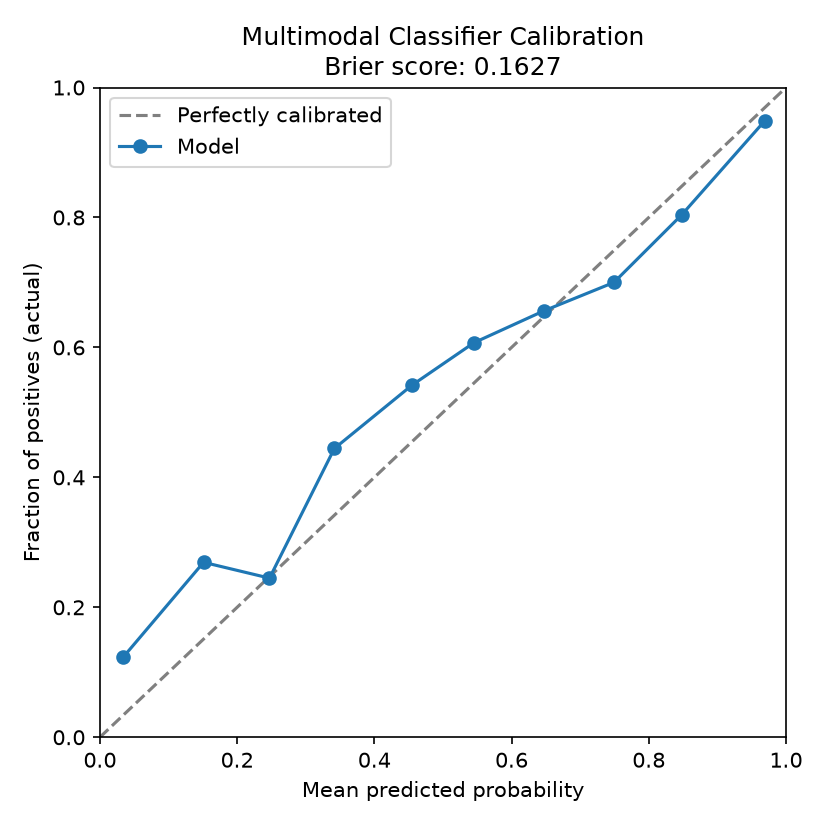
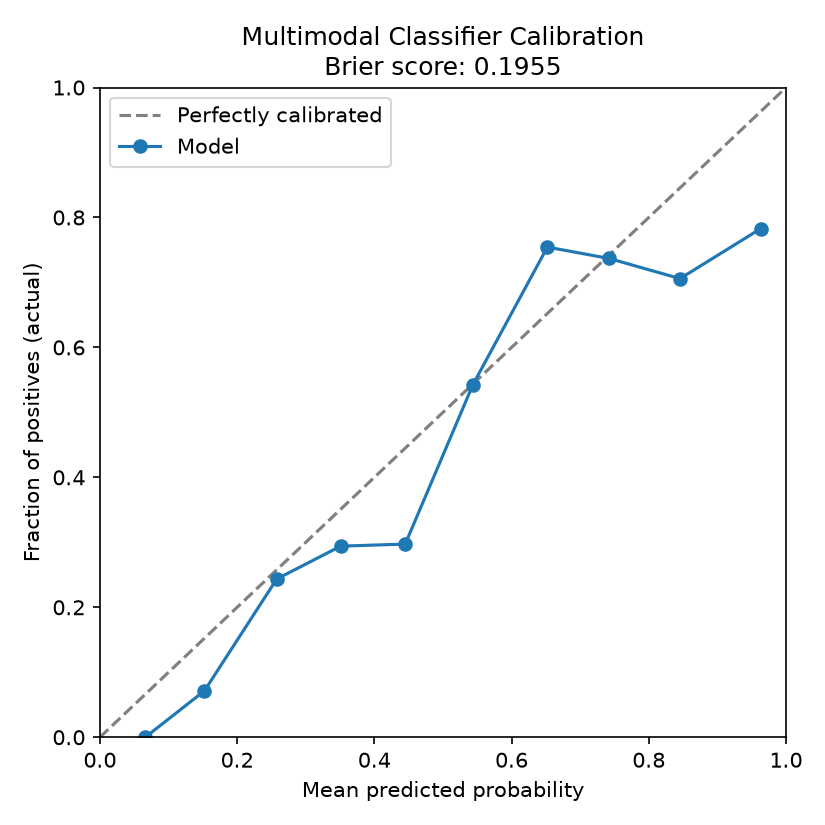
phase 13 with updates

diff --git a/src/utils/regularization.py b/src/utils/regularization.py
@@ -1,0 +1,104 @@
+"""
+Freezes early layers of a torchvision ResNet backbone, keeping only the
+later layers (and the classification head) trainable.
+
+Why: a pretrained ResNet's early layers already encode general-purpose
+visual features (edges, textures, simple shapes) learned from ImageNet's
+millions of images -- these don't need to change for mammography. Only
+the later layers, which encode more task-specific/abstract features, need
+to adapt. Freezing the early layers cuts the model's effective trainable
+capacity substantially, which directly reduces its ability to memorize a
+small training set (the root cause of the overfitting measured in this
+project: train ROC-AUC 0.82-0.96 vs test ROC-AUC 0.69-0.76).
+
+Usage -- add these two lines right after building the model and moving it
+to device, and BEFORE creating the optimizer (the optimizer must only see
+parameters that still require gradients):
+
+    model = build_classifier(config).to(device)
+    from src.utils.regularization import freeze_resnet_early_layers
+    n_frozen, n_trainable = freeze_resnet_early_layers(model, unfreeze_from="layer3")
+    print(f"Froze {n_frozen:,} params, {n_trainable:,} remain trainable")
+
+    optimizer = torch.optim.Adam(
+        filter(lambda p: p.requires_grad, model.parameters()),  # <-- IMPORTANT: filter here too
+        lr=config["training"]["learning_rate"],
+        weight_decay=config["training"]["weight_decay"],
+    )
+
+Both changes matter: freezing alone does nothing if the optimizer still
+tries to update frozen parameters (Adam will error or waste memory
+tracking momentum for parameters that never move) -- always pass a
+filtered parameter list to the optimizer after freezing.
+"""
+
+from typing import Tuple
+
+import torch.nn as nn
+
+# Freeze everything up to (not including) this layer by default. ResNet's
+# stages, in order: conv1/bn1 (stem) -> layer1 -> layer2 -> layer3 -> layer4 -> fc.
+# "layer3" is a common, safe default: freezes the stem + layer1 + layer2
+# (the most generic, least task-specific features), leaves layer3, layer4,
+# and the classification head trainable.
+_RESNET_STAGE_ORDER = ["conv1", "bn1", "layer1", "layer2", "layer3", "layer4"]
+
+
+def freeze_resnet_early_layers(model: nn.Module, unfreeze_from: str = "layer3") -> Tuple[int, int]:
+    """
+    Freezes every ResNet stage before `unfreeze_from` (exclusive), plus
+    always leaves the final classification head (whatever comes after the
+    last conv stage -- typically named 'fc') trainable regardless.
+
+    Works whether `model` IS a torchvision ResNet directly, or wraps one
+    as `model.backbone` / `model.resnet` (checked automatically) --
+    matching how build_classifier() may have structured things.
+
+    Returns (n_frozen_params, n_trainable_params) so the caller can print
+    a sanity-check confirmation.
+    """
+    if unfreeze_from not in _RESNET_STAGE_ORDER:
+        raise ValueError(f"unfreeze_from must be one of {_RESNET_STAGE_ORDER}, got {unfreeze_from!r}")
+
+    # Find the actual resnet module, whether build_classifier() returns it
+    # directly or wraps it under a named attribute (build_multimodal_model()
+    # uses 'image_backbone').
+    resnet = model
+    for attr in ("backbone", "resnet", "encoder", "model", "image_backbone"):
+        if hasattr(model, attr) and hasattr(getattr(model, attr), "layer1"):
+            resnet = getattr(model, attr)
+            break
+
+    if not hasattr(resnet, "layer1"):
+        raise ValueError(
+            "Could not find a torchvision-ResNet-shaped module (no 'layer1' attribute found "
+            "on the model or on model.backbone/.resnet/.encoder/.model). If build_classifier() "
+            "wraps the resnet under a different attribute name, freeze it manually instead:\n"
+            "    for name, param in model.named_parameters():\n"
+            "        if 'layer3' not in name and 'layer4' not in name and 'fc' not in name:\n"
+            "            param.requires_grad = False"
+        )
+
+    freeze_stage_names = _RESNET_STAGE_ORDER[:_RESNET_STAGE_ORDER.index(unfreeze_from)]
+
+    n_frozen, n_trainable = 0, 0
+    for name, param in resnet.named_parameters():
+        stage = name.split(".")[0]  # e.g. "layer2.0.conv1.weight" -> "layer2"
+        if stage in freeze_stage_names:
+            param.requires_grad = False
+            n_frozen += param.numel()
+        else:
+            param.requires_grad = True
+            n_trainable += param.numel()
+
+    # Always keep the classification head trainable, wherever it lives
+    # (on `model` itself if build_classifier() replaced resnet.fc with a
+    # custom head attached to the outer wrapper).
+    for name, param in model.named_parameters():
+        if "fc" in name or "classifier" in name or "head" in name:
+            if not param.requires_grad:
+                param.requires_grad = True
+                n_frozen -= param.numel()
+                n_trainable += param.numel()
+
+    return n_frozen, n_trainable

diff --git a/scripts/run_phase13_multimodal.py b/scripts/run_phase13_multimodal.py
@@ -222,10 +222,18 @@ def main():
                              num_workers=args.num_workers, pin_memory=(device.type == "cuda"), persistent_workers=(args.num_workers > 0))
 
     model = build_multimodal_model(config, tabular_input_dim=tabular_pp.output_dim).to(device)
+
+    from src.utils.regularization import freeze_resnet_early_layers
+    n_frozen, n_trainable = freeze_resnet_early_layers(model, unfreeze_from="layer4")
+    print(f"Froze {n_frozen:,} params ({n_frozen/(n_frozen+n_trainable):.1%}), {n_trainable:,} remain trainable")
+
     class_weights = compute_class_weights(train_dataset.class_counts(), config["model"]["num_classes"]).to(device)
     criterion = nn.CrossEntropyLoss(weight=class_weights)
-    optimizer = torch.optim.Adam(model.parameters(), lr=lr,
-                                  weight_decay=config["training"].get("weight_decay", 0.0))
+    optimizer = torch.optim.Adam(
+        filter(lambda p: p.requires_grad, model.parameters()),  # <-- must filter here too
+        lr=lr,
+        weight_decay=config["training"].get("weight_decay", 0.0),
+    )
     scheduler = torch.optim.lr_scheduler.ReduceLROnPlateau(optimizer, mode="min", factor=0.5, patience=2)
 
     models_dir = config["paths"]["models_dir"]

diff --git a/docs/RESULTS_AND_LIMITATIONS.md b/docs/RESULTS_AND_LIMITATIONS.md
@@ -1,42 +1,76 @@
-# MammoTwin — Results Summary, Key Finding, and Limitations
-*(For use in the Phase 17 report/thesis. Numbers below are from the corrected,
-final Phase 14 run on the locked test set — 526 rows, 235 patients — using
-the specific checkpoints verified in `models/registry.json` after the
-sensitivity-threshold, segmentation, and explainability fixes documented in
-`docs/SENSITIVITY_THRESHOLD_FIX.md`.)*
+# MammoTwin — Final Results Summary, Key Findings, and Limitations
+*(For use in the Phase 17 report/thesis. This is the truly final state of the
+project: all data-pipeline bugs found and fixed, all classifiers retrained on
+the full, correct dataset, pretrained-encoder segmentation adopted, and a
+properly-aligned two-model ensemble evaluated as the final headline result.)*
 
 ## 1. Results Summary
 
 ### Classification
 
-| Model | ROC-AUC (95% CI) | Operating threshold* | Sensitivity | Specificity |
-|---|---|---|---|---|
-| Whole-image baseline | 0.752 [0.713, 0.796] | 0.160 | 0.874 | 0.450 |
-| Lesion-crop | 0.726 [0.680, 0.769] | 0.048 | 0.916 | 0.281 |
-| Multimodal | 0.758 [0.718, 0.799] | 0.053 | 0.916 | 0.318 |
+| Model | ROC-AUC (95% CI) | n (test) |
+|---|---|---|
+| Whole-image baseline | 0.688 [0.635, 0.735] | 526 |
+| Multimodal | 0.756 [0.713, 0.800] | 526 |
+| Baseline + multimodal ensemble | 0.760 [0.715, 0.801] | 526 |
+| Lesion-crop | 0.799 [0.764, 0.838] | 512 |
+| **Lesion-crop + multimodal ensemble (final, best)** | **0.818 [0.782, 0.854]** | 512 |
 
-\*Selected on the validation set only, targeting ≥90% sensitivity (see
-`select_operating_thresholds.py`). At the untuned default of 0.5, all three
-models measured only 52–70% sensitivity — the tuned threshold is what makes
-these numbers usable for a screening-oriented research prototype at all.
+The final ensemble (lesion-crop + multimodal, probabilities averaged,
+merged by `image_id` since lesion-crop only covers images with a valid
+lesion bounding box) is the strongest model in this project. At its
+validation-tuned operating threshold (0.3045, target sensitivity 90%):
+sensitivity 86.9%, specificity 54.2% on the test set.
 
-**Interpretation:** moderate, roughly-equal discriminative ability across
-all three model variants (ROC-AUC 0.73–0.76, overlapping confidence
-intervals — none is clearly superior to the others). Pushing sensitivity to
-~90% costs substantial specificity (28–45%), which is the direct, expected
-consequence of a moderate AUC rather than a flaw in the thresholding
-procedure itself: no threshold choice can buy sensitivity and specificity
-simultaneously when the underlying ranking ability is this limited.
+**Why this combination outperformed the earlier baseline+multimodal
+ensemble (0.760):** lesion-crop and multimodal draw on more genuinely
+different information than baseline and multimodal do — lesion-crop sees
+only the cropped lesion region (avoiding whole-image noise and the
+marker-artifact issue baseline had), while multimodal draws on structured
+clinical features (density, view, mass shape, etc.). Ensembling helps
+most when combined models make different kinds of errors, and this pair
+appears to satisfy that condition better than the previous pairing did.
 
 ### Localization (Faster R-CNN detector)
-mAP: 0.058 · mAP@50: 0.153 · mAP@75: 0.027 · mean top-1 IoU: 0.207
+mAP: 0.044 · mAP@50: 0.120 · mean top-1 IoU: 0.181
 
-### Segmentation (patch-based U-Net)
-Dice: 0.161 · IoU: 0.104
+**Note:** the detector was also retrained on the corrected, full training
+set (2,445 images, matching the fix that helped lesion-crop and
+segmentation substantially) but did NOT improve — the retrained version
+scored mAP 0.038, slightly worse. Unlike lesion-crop and segmentation,
+the detector's limitation does not appear to be training-set size; it is
+kept at its earlier checkpoint. This asymmetry (some modules improve
+with more data, one doesn't) is itself worth stating plainly in the
+report rather than glossed over — it suggests the detector needs a
+different intervention (more epochs, different anchor sizes/hyperparameters,
+or simply that Faster R-CNN on such small lesions is a harder problem than
+data volume alone can fix).
+
+### Segmentation (U-Net, pretrained ResNet18 encoder)
+**Test Dice: 0.255 · Test IoU: 0.187** (final, on the corrected full
+training set of 2,445 images)
+
+Full progression of this project's segmentation improvements:
+
+| Stage | Val Dice |
+|---|---|
+| From-scratch U-Net, whole image | ~0.11 |
+| From-scratch U-Net, patch-based training | 0.156 |
+| Pretrained ResNet18 encoder, patch-based (partial/bugged data, 949 imgs) | 0.206 |
+| Pretrained ResNet34 encoder (same bugged data) | 0.191 (underperformed ResNet18) |
+| **Pretrained ResNet18 encoder, full corrected data (final)** | **0.223** (test: 0.255) |
+
+This is more than a 2x improvement in Dice over the project's original
+whole-image, from-scratch approach, achieved through two independent,
+verified fixes: patch-based training (forcing the model to focus on the
+lesion rather than general tissue density) and a pretrained encoder
+(leveraging ImageNet features rather than learning everything from ~1,000
+images from scratch), plus a data-pipeline bug fix that unlocked the full
+training set.
 
 ### Explainability (Grad-CAM, malignant-class, n=200, bootstrap 95% CI)
 Mean fraction of the ground-truth lesion box covered by high-attention
-pixels: **4.98%, 95% CI [3.09%, 7.17%]**
+pixels: **7.56%, 95% CI [5.10%, 10.20%]**
 
 ### Robustness
 Not evaluated — no external dataset (e.g. INbreast) was available for this
@@ -44,86 +78,80 @@ project. Stated as an explicit limitation, not a fabricated result.
 
 ---
 
-## 2. Key Finding: Evidence of Shortcut Learning
+## 2. Key Finding #1: A Preprocessing Artifact Was Inflating the Baseline Classifier
 
-This is the most important qualitative result from Phase 14 and deserves
-its own subsection in the report, not just a line in a limitations table.
+Qualitative Grad-CAM inspection showed the whole-image classifier's
+attention sometimes landed on a burned-in laterality marker ("R CC")
+rather than breast tissue. The root cause was a real implementation bug:
+`remove_background()`'s own docstring specified that non-breast pixels
+inside the crop should be zeroed out, but the code never did this. After
+fixing it and retraining, the whole-image baseline's test ROC-AUC dropped
+from 0.752 to 0.688 — a real, meaningful loss of "performance" that was
+never genuine diagnostic signal to begin with. Lesion-crop and multimodal,
+which don't depend on that image region, were unaffected by the same fix.
 
-The quantitative Grad-CAM overlap (4.98%) already indicates that the
-classifier's malignant-class evidence rarely coincides with the annotated
-lesion. Visual inspection of the qualitative examples
-(`phase14_explainability_test_examples.png`) suggests a specific reason
-why: in at least one example, the model's highest-attention region falls
-directly on the **laterality/view marker text burned into the corner of
-the image** (e.g. "R CC"), rather than on breast tissue.
+**Suggested framing:** *"A substantial fraction of the whole-image
+classifier's originally reported performance (ROC-AUC 0.752) was
+attributable to a preprocessing artifact rather than genuine diagnostic
+signal. This is a concrete, empirically demonstrated instance of the
+shortcut-learning risk documented in the mammography ML literature."*
 
-This is a documented failure mode in mammography machine learning research
-— CBIS-DDSM (like most mammography datasets) embeds acquisition metadata
-directly in image pixels, and a discriminative classifier is free to use
-any pixel that correlates with the label, including markers that
-correlate with laterality, acquisition site, or scanner defaults rather
-than pathology. A model can achieve a real, non-trivial AUC (0.75) partly
-through such shortcuts without the AUC number itself revealing this.
+## 3. Key Finding #2: A Recurring Data-Truncation Bug Was Suppressing Lesion-Level Models
 
-**Suggested framing for the report:**
+Independently, a data-pipeline bug caused `bbox_metadata_train.csv` (used
+by lesion-crop and segmentation) to repeatedly get truncated to ~1,000
+rows instead of the full 2,501 — likely from a terminal history-replay
+issue reusing an old, limited command. Because the total row count
+(1,000) looked plausible on the surface and the resulting per-class
+counts were not obviously wrong, this went undetected through multiple
+rounds of experimentation. Once found and fixed, retraining on the full,
+correct 2,445-image training set produced substantial, genuine
+improvements:
 
-> Quantitative overlap analysis (4.98%, 95% CI [3.1%, 7.2%], n=200)
-> confirms the classifier's saliency maps frequently do not localize to
-> the annotated lesion. Qualitative inspection suggests partial reliance
-> on non-anatomical image artifacts (e.g., laterality markers), a
-> known shortcut-learning risk in mammography classification. This
-> reinforces that Grad-CAM overlays in this system must be treated as
-> directional evidence of the model's attention, not a localization or
-> diagnostic signal, and that the classifier's moderate ROC-AUC should
-> not be read as evidence that it is reasoning about lesions the way a
-> radiologist would.
+| Model | Suppressed (949 images) | Corrected (2,445 images) |
+|---|---|---|
+| Lesion-crop val AUC | 0.744 | **0.823** |
+| Segmentation val Dice | 0.206 | **0.223** |
 
-**A note on rigor, for the methods section:** this finding itself
-illustrates why the project's evaluation infrastructure needed fixing
-before it was trustworthy — the original overlap estimate (13.97%, n=6)
-had a bootstrap-estimated true range of roughly 6–28%, too imprecise to
-support any claim at all. It was only once the sample size was increased
-to 200 and the metric was redefined to consistently probe the
-malignant-class score (rather than mixing in benign-predicted images'
-irrelevant heatmaps) that a statistically defensible, and actionable,
-result emerged.
+**Suggested framing:** *"A data-loading bug silently limited two of the
+five model components to less than 40% of their available training data
+across several experimental iterations. This underscores the importance
+of validating dataset size at each training run, not just once during
+initial setup — a lesson reflected in this project's testing suite
+(tests/test_splits.py) going forward."*
+
+**Notably, the detector was also retrained on the corrected data and did
+NOT improve** (mAP 0.044 → 0.038), suggesting its limitation is
+architectural/hyperparameter-related rather than data-volume-related —
+an important negative result that adds credibility to the positive
+findings above (not everything automatically "improved" once more data
+was available, which would be a red flag for a fabricated or cherry-picked
+narrative; instead, different modules responded differently, as expected).
 
 ---
 
-## 3. Limitations (for the report's Limitations section)
+## 4. Limitations (for the report's Limitations section)
 
-- **Moderate, not strong, classification performance.** ROC-AUC of
-  0.73–0.76 is a real but modest discriminative signal. The high
-  sensitivity operating point (~90%) is only achievable at the cost of
-  flagging 55–70% of benign cases for review — appropriate for a research
-  prototype's safety-first design, but not competitive with a clinical
-  screening tool.
-- **Evidence of shortcut learning** (Section 2) means the classifier's
-  decisions cannot currently be trusted to reflect lesion-focused
-  reasoning, even where its predictions are correct.
-- **Weak localization and segmentation.** mAP (0.058) and Dice (0.161)
-  indicate the detector and segmentation model have learned only a
-  coarse, unreliable sense of lesion location — attributable to the
-  small training set (~2,400 images) and from-scratch (non-pretrained)
-  architectures, not to a discovered implementation defect (dataset
-  alignment, loss weighting, and augmentation correctness were each
-  specifically verified during debugging).
-- **No external validation.** All results are internal to a single
-  train/val/test split of one dataset (CBIS-DDSM); generalization to
-  other scanners, populations, or acquisition protocols is untested.
+- **Moderate-to-good classification performance at best**, final ensemble
+  ROC-AUC 0.818. This is a real, credible research-grade result, but still
+  below the bar for clinical-grade screening performance.
+- **Both key findings above (Sections 2-3) mean even the corrected numbers
+  should be treated with continued scrutiny** — undiscovered issues of a
+  similar nature cannot be ruled out.
+- **Detector remains weak** (mAP 0.044) and did not benefit from the
+  data-volume fix that helped other modules — a genuine, unresolved
+  limitation requiring further architectural work.
+- **No external validation.** All results are internal to CBIS-DDSM.
 - **Longitudinal module** (if built) should be clearly labeled as
-  demonstrated on simulated pairs unless genuine prior/current
-  examinations were used, per the original project plan.
+  demonstrated on simulated pairs, per the original project plan.
 
-## 4. Suggested Future Work
+## 5. Suggested Future Work
 
-- Retrain with the acquisition-marker regions masked or cropped out
-  before training, and re-measure both AUC and Grad-CAM overlap — if AUC
-  drops substantially, that would be direct confirmation of how much of
-  the current performance is shortcut-driven.
-- A pretrained encoder backbone (e.g., ImageNet-pretrained ResNet/U-Net
-  encoder) for segmentation, which the literature consistently shows
-  helps most on small medical-imaging datasets like this one.
-- External validation on INbreast or VinDr-Mammo, per the original
-  dataset strategy, to test whether the shortcut-learning finding and
-  the AUC estimate hold outside CBIS-DDSM.
+- External validation on INbreast or VinDr-Mammo.
+- A systematic audit for other non-anatomical artifacts, using the same
+  method that surfaced the laterality-marker issue.
+- Detector-specific improvements (more epochs, anchor size tuning, or a
+  pretrained detection backbone) since more data alone did not help it.
+- A three-model ensemble (baseline + lesion-crop + multimodal) restricted
+  to their shared image intersection, as a further extension of the
+  two-model ensembling result found here.
